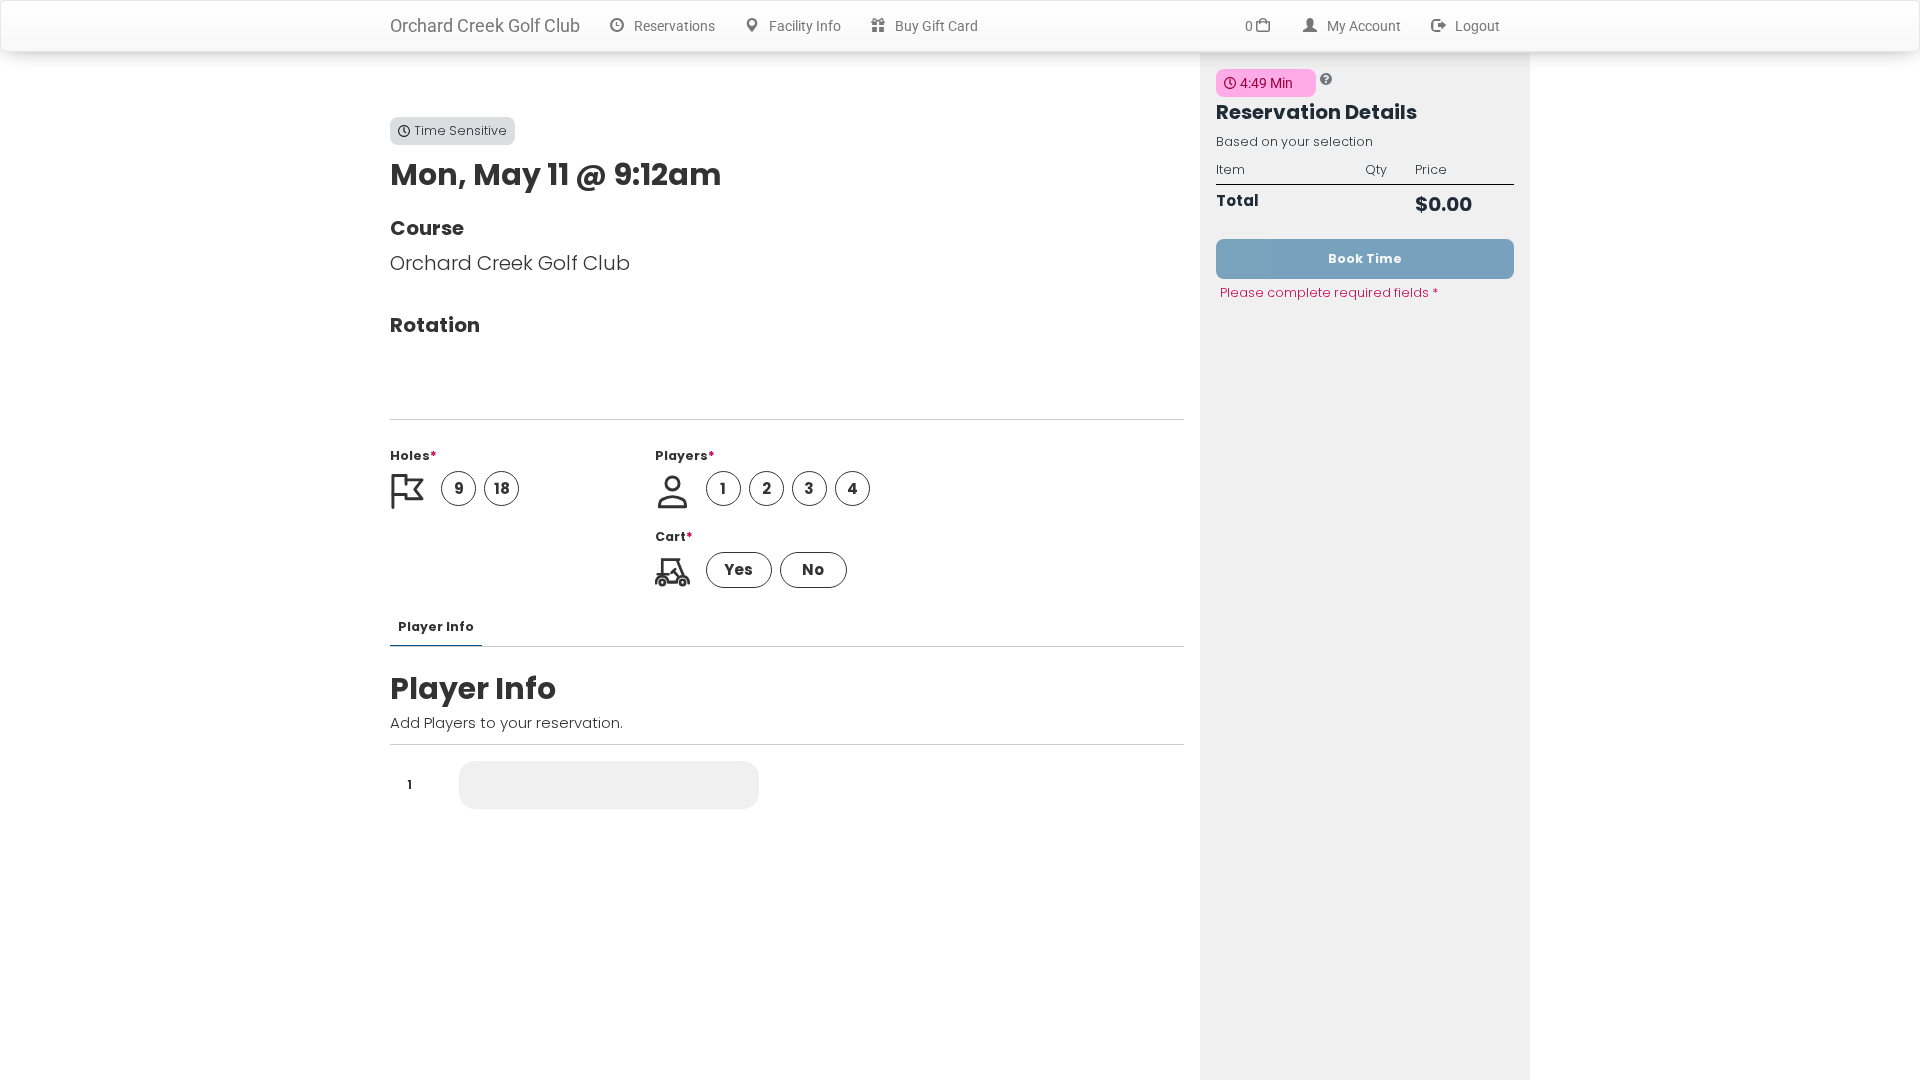
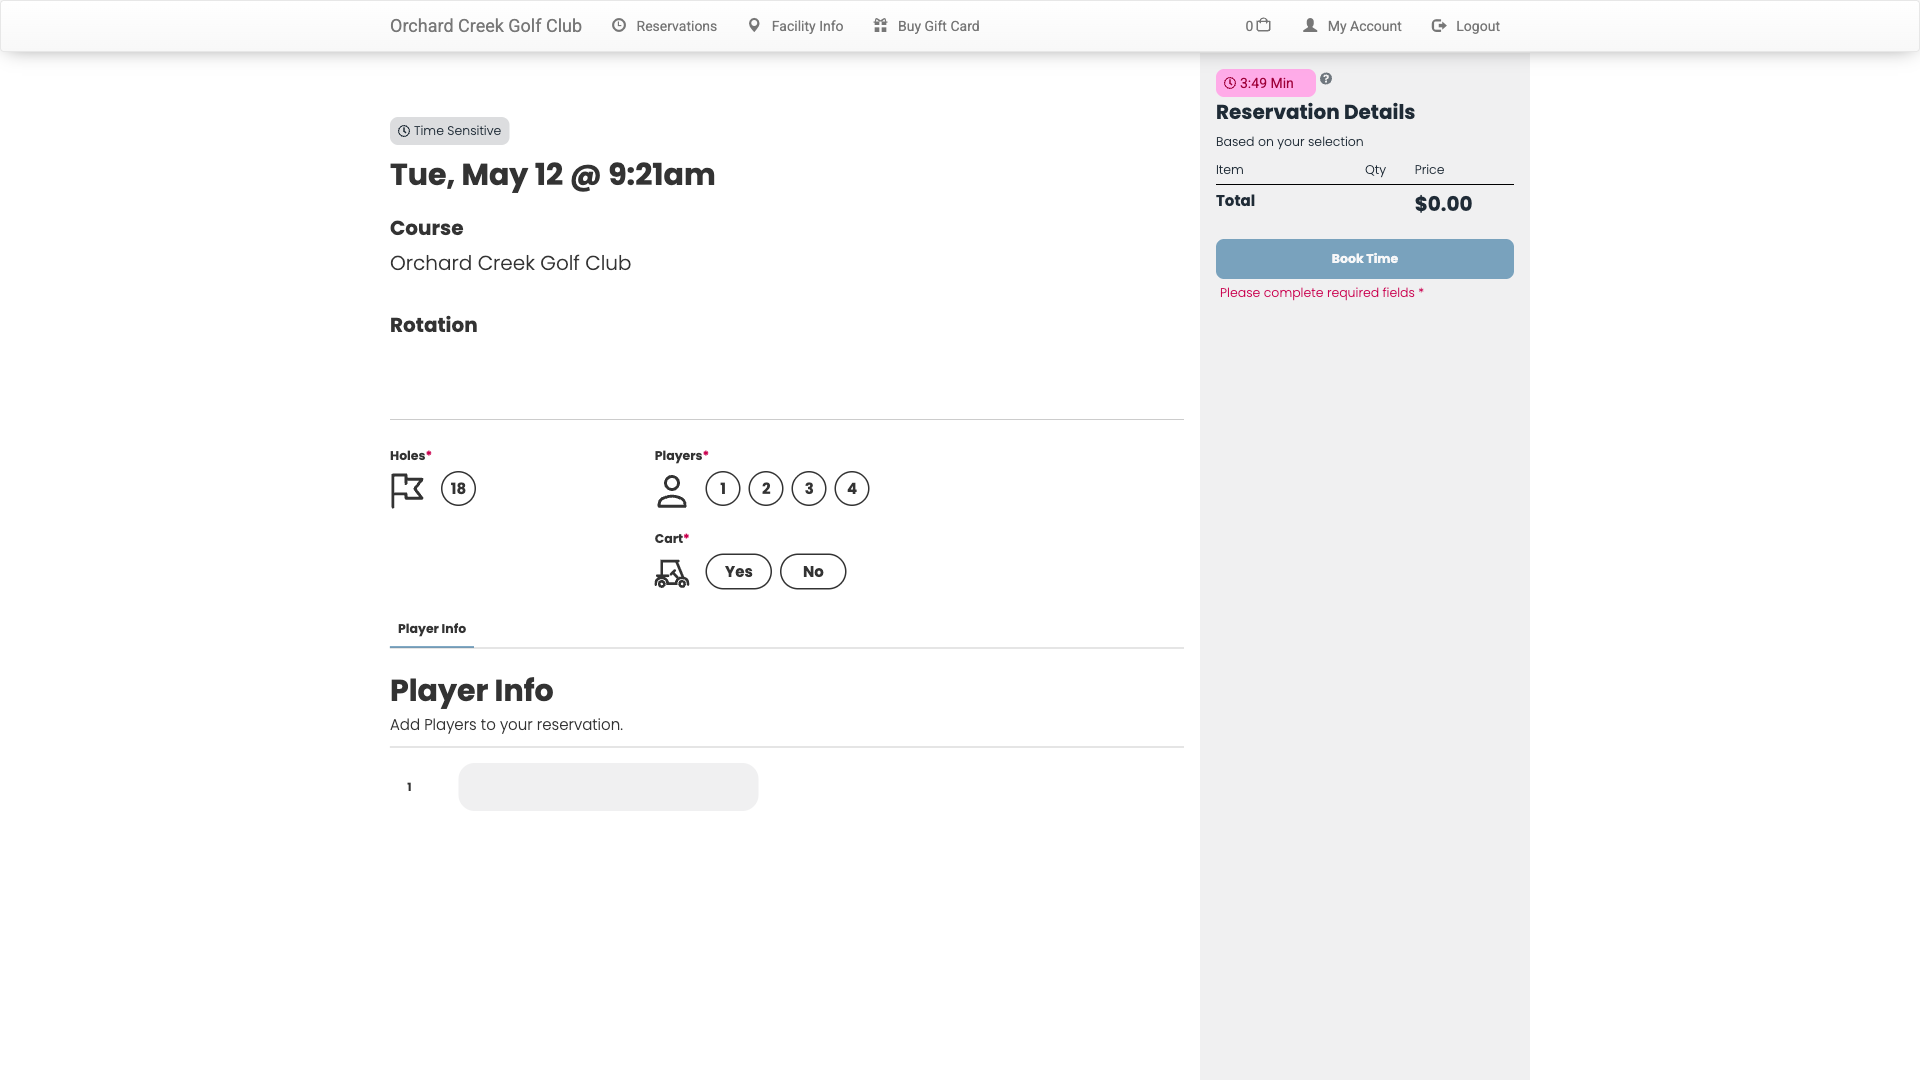
successful booking orchard creek headless:FALSE

diff --git a/backend/playwright_logic.py b/backend/playwright_logic.py
@@ -248,45 +248,68 @@ def book_via_foreup_software(url, booking, email, password, dry_run=False, headl
             logging.info("Clicking tee time slot for %s", best_time_str)
             booking_element.click()
 
-            # Wait for modal to appear, which could contain login or booking options
-            modal_locator = page.locator('div.modal-body, div.booking-details, #booking-modal, .modal-dialog').first
+            # Wait for modal or panel to appear
+            modal_locator = page.locator('div.modal-body, div.booking-details, #booking-modal, .modal-dialog, .booking-modal').first
             modal_locator.wait_for(state='visible', timeout=15000)
 
             # --- Handle Login (if necessary) ---
             try:
-                password_input = modal_locator.locator('input[type="password"]').first
-                if password_input.is_visible():
-                    logging.info("Login form detected in modal. Logging in.")
-                    modal_locator.locator('input[type="email"], input[name="email"]').first.fill(email)
-                    password_input.fill(password)
-                    modal_locator.locator('button:has-text("Log In"), button:has-text("Login")').first.click()
-                    # Wait for login to complete by observing the password field disappearing
-                    password_input.wait_for(state='hidden', timeout=15000)
-            except PlaywrightTimeoutError:
-                logging.info("No login form detected in modal or it disappeared, continuing.")
+                # Use global page selectors for login to be safe
+                email_input = page.get_by_placeholder("Email").first
+                pass_input = page.get_by_placeholder("Password").first
+                
+                if email_input.is_visible(timeout=5000):
+                    logging.info("Login form detected. Logging in...")
+                    email_input.fill(email)
+                    pass_input.fill(password)
+                    pass_input.press("Enter")
+                    
+                    # Wait for login to complete
+                    email_input.wait_for(state='hidden', timeout=15000)
+                    logging.info("Login successful, waiting for booking options...")
+                    page.wait_for_timeout(4000) # Give UI time to load options
+            except Exception as e:
+                logging.info(f"No login required or login transition handled: {e}")
+
+            # --- Select Booking Options ---
+            # Search globally on the page as the modal might have refreshed
+            logging.info("Selecting booking options (Holes, Players, Cart).")
+            try:
+                # Use codegen-style label selectors globally
+                page.get_by_label(re.compile(r"18 Holes", re.I)).click(timeout=5000)
+                page.wait_for_timeout(500)
+                page.get_by_label(re.compile(rf"{booking.players} Players", re.I)).click(timeout=5000)
+                page.wait_for_timeout(500)
+                
+                # Optional cart selection
+                cart_opt = page.get_by_label(re.compile(r"Yes.*cart", re.I))
+                if cart_opt.is_visible(timeout=2000):
+                    cart_opt.click()
+            except Exception as e:
+                logging.warning(f"Could not select some options (may have used defaults): {e}")
 
             # --- Final Booking Confirmation ---
             logging.info("Looking for final booking confirmation button.")
-            book_btn = modal_locator.locator('button, a').filter(
-                has_text=re.compile(r'Book Time|Reserve|Continue|Confirm', re.I)
-            ).first
+            # Search globally for the button
+            book_btn = page.get_by_role("button", name=re.compile(r"Book Time", re.I))
+            
+            # If role check fails, try text-based locator
+            if not book_btn.is_visible(timeout=5000):
+                book_btn = page.locator('button, a').filter(
+                    has_text=re.compile(r'Book Time|Reserve|Continue|Confirm', re.I)
+                ).first
+            
             book_btn.wait_for(state='visible', timeout=10000)
+            logging.info("Clicking final booking button: %s", book_btn.inner_text().strip())
             
-            logging.info("Clicking final booking button: %s", book_btn.inner_text())
-            book_btn.click()
-            
-            # Wait for a success confirmation or modal to close
-            page.wait_for_timeout(5000) 
+            if not dry_run:
+                book_btn.click()
+                # Wait for final success message
+                page.wait_for_timeout(5000) 
+            else:
+                logging.info("DRY RUN: Skipping final click.")
             
             return f'Success! Attempted booking for {best_time_str}'
-
-            # ------- GEMINI CODE BLOCK THAT DOES NOT WORK --------------#
-            #logging.info("Looking for final booking confirmation button.")
-            #book_btn = modal_locator.locator('button, a').filter(
-                #has_text=re.compile(r'Book Time|Reserve|Continue|Confirm', re.I)
-            #).first
-            #book_btn.wait_for(state='visible', timeout=10000)
-            # ------- GEMINI CODE BLOCK THAT DOES NOT WORK --------------#
 
             
 